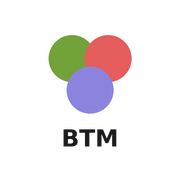
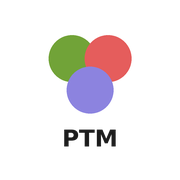
Rename the app to PTM – Petanque Tournament Manager
- New logo (same three circles, "PTM" in the original lettering) as
  /ptm-logo.png (btm-logo.png also replaced); favicons, app icons, badged
  Teams / Leaderboard / Teams Edit shortcut icons and coin toss logo redrawn
- "Petanque Tournament Manager" / "PTM" in titles, nav, sign-in, password
  reset, team registration, emails (reset + matches report), error messages,
  help text, shortcut dialog and Coin Toss (title, manifest, description)
- Icon version tags bumped so browsers fetch the new pictures; coin toss
  offline copy bumped. Internal names (repo, Render, database, storage keys)
  unchanged; btm.themoirs.uk keeps working.

Claude-Session: https://claude.ai/code/session_01BSXdqJTaVf44VpYp4jSkUf

Changed region(s): [[0.4444, 0.6944, 0.6667, 0.8333], [0.3333, 0.6944, 0.5, 0.8333], [0.6111, 0.6944, 0.6389, 0.7222]]

diff --git a/server/routes.ts b/server/routes.ts
@@ -39,7 +39,7 @@ ${editUrl
 Email: <a href="mailto:${c.email}">${c.email}</a><br>
 WhatsApp: <a href="https://wa.me/${c.whatsappIntl}">${c.whatsapp}</a></p>`}
 <p>Good luck in the tournament!</p>
-<p style="color:#888;font-size:13px">Boules Tournament Manager · <a href="${siteUrl}" style="color:#888">${siteUrl.replace(/^https?:\/\//, "")}</a></p>
+<p style="color:#888;font-size:13px">Petanque Tournament Manager · <a href="${siteUrl}" style="color:#888">${siteUrl.replace(/^https?:\/\//, "")}</a></p>
 </div>`;
 }
 
@@ -169,7 +169,7 @@ export async function registerRoutes(app: Express): Promise<Server> {
 
       if (!hasUsablePassword(user.passwordHash)) {
         return res.status(401).json({
-          error: "This account doesn't have a BTM password yet. Sign in with Google, or use \"Forgot password?\" to set one.",
+          error: "This account doesn't have a PTM password yet. Sign in with Google, or use \"Forgot password?\" to set one.",
         });
       }
 
@@ -252,9 +252,9 @@ export async function registerRoutes(app: Express): Promise<Server> {
           await client.emails.send({
             from: fromEmail,
             to: user.email,
-            subject: "Reset your Boules Tournament Manager password",
+            subject: "Reset your Petanque Tournament Manager password",
             html: `<p>Hello${user.displayName ? ` ${user.displayName}` : ""},</p>
-<p>Someone (hopefully you) asked to ${hasUsablePassword(user.passwordHash) ? "reset" : "set"} the password for your Boules Tournament Manager account.</p>
+<p>Someone (hopefully you) asked to ${hasUsablePassword(user.passwordHash) ? "reset" : "set"} the password for your Petanque Tournament Manager account.</p>
 <p><a href="${link}">Click here to choose a new password</a></p>
 <p>This link works once and expires in 1 hour. If you didn't ask for this, you can ignore this email.</p>`,
           });
@@ -378,7 +378,7 @@ export async function registerRoutes(app: Express): Promise<Server> {
     const rawStart = String(req.query.start || "/").trim();
     // Only same-site paths: must start with a single "/" (not "//host")
     const start = /^\/(?!\/)[^\s]{0,500}$/.test(rawStart) ? rawStart : "/";
-    const name = rawName || "Boules Tournament Manager";
+    const name = rawName || "Petanque Tournament Manager";
     // Each shortcut covers only its own page (e.g. /teams/<tournament>), so the
     // Teams and Leaderboard pages, and different tournaments, install separately.
     // A shortcut covering the whole site would stop Chrome offering the others.
@@ -388,12 +388,12 @@ export async function registerRoutes(app: Express): Promise<Server> {
     const iconKind = iconKinds.includes(String(req.query.icon)) ? String(req.query.icon) : null;
     const icons = iconKind
       ? [
-          { src: `/icons/${iconKind}-192.png?v=2`, sizes: "192x192", type: "image/png", purpose: "any" },
-          { src: `/icons/${iconKind}-512.png?v=2`, sizes: "512x512", type: "image/png", purpose: "any" },
+          { src: `/icons/${iconKind}-192.png?v=3`, sizes: "192x192", type: "image/png", purpose: "any" },
+          { src: `/icons/${iconKind}-512.png?v=3`, sizes: "512x512", type: "image/png", purpose: "any" },
         ]
       : [
-          { src: "/icon-192.png", sizes: "192x192", type: "image/png", purpose: "any" },
-          { src: "/icon-512.png", sizes: "512x512", type: "image/png", purpose: "any" },
+          { src: "/icon-192.png?v=3", sizes: "192x192", type: "image/png", purpose: "any" },
+          { src: "/icon-512.png?v=3", sizes: "512x512", type: "image/png", purpose: "any" },
         ];
     res.type("application/manifest+json");
     res.set("Cache-Control", "no-cache");
@@ -402,7 +402,7 @@ export async function registerRoutes(app: Express): Promise<Server> {
         id: start,
         name,
         short_name: name,
-        description: "Boules Tournament Manager",
+        description: "Petanque Tournament Manager",
         // Marked so the app knows the shortcut exists (it then hides the "Add Shortcut" button)
         start_url: `${start}${start.includes("?") ? "&" : "?"}from=shortcut`,
         scope,
@@ -797,7 +797,7 @@ export async function registerRoutes(app: Express): Promise<Server> {
 
       const targetUser = await storage.getUserByEmail(email.trim());
       if (!targetUser) {
-        return res.status(404).json({ error: `${email.trim()} does not have a BTM account. Get them to create one before transferring ownership to them.` });
+        return res.status(404).json({ error: `${email.trim()} does not have a PTM account. Get them to create one before transferring ownership to them.` });
       }
 
       if (targetUser.isBlocked) {
@@ -856,7 +856,7 @@ export async function registerRoutes(app: Express): Promise<Server> {
         return res.status(400).json({ error: "A valid email address is required" });
       }
       const target = await storage.getUserByEmail(email.trim().toLowerCase());
-      if (!target) return res.status(404).json({ error: `${email.trim()} does not have a BTM account. Get them to create one before setting them as a co-editor.` });
+      if (!target) return res.status(404).json({ error: `${email.trim()} does not have a PTM account. Get them to create one before setting them as a co-editor.` });
       if (target.isBlocked) return res.status(400).json({ error: "Cannot add a blocked user as co-editor" });
       if (target.id === tournament.userId) {
         return res.status(400).json({ error: "That user already owns this tournament" });
@@ -1663,13 +1663,13 @@ export async function registerRoutes(app: Express): Promise<Server> {
       const result = await client.emails.send({
         from: fromEmail,
         to: validatedData.recipientEmail,
-        subject: "Boules Tournament - Matches Report",
+        subject: "Petanque Tournament - Matches Report",
         html: `
-          <h2>Boules Tournament Matches Report</h2>
+          <h2>Petanque Tournament Matches Report</h2>
           <p>Please find attached the matches report generated on ${new Date().toLocaleDateString()}.</p>
           <p>This report contains all match information including schedules, scores, and results.</p>
           <br/>
-          <p>Best regards,<br/>Boules Tournament Management</p>
+          <p>Best regards,<br/>Petanque Tournament Manager</p>
         `,
         attachments: [
           {

diff --git a/client/index.html b/client/index.html
@@ -3,11 +3,11 @@
   <head>
     <meta charset="UTF-8" />
     <meta name="viewport" content="width=device-width, initial-scale=1.0, maximum-scale=1" />
-    <title>Boules Tournament Manager</title>
+    <title>Petanque Tournament Manager</title>
     <meta name="description" content="Manage your boules tournament competition with team registration, match tracking, and tournament brackets for all stages from initial rounds to finals." />
-    <link rel="icon" type="image/png" href="/favicon.png?v=2" />
-    <link rel="icon" type="image/x-icon" href="/favicon.ico?v=2" sizes="any" />
-    <link rel="apple-touch-icon" href="/apple-touch-icon.png?v=2" />
+    <link rel="icon" type="image/png" href="/favicon.png?v=3" />
+    <link rel="icon" type="image/x-icon" href="/favicon.ico?v=3" sizes="any" />
+    <link rel="apple-touch-icon" href="/apple-touch-icon.png?v=3" />
     <link rel="preconnect" href="https://fonts.googleapis.com">
     <link rel="preconnect" href="https://fonts.gstatic.com" crossorigin>
     <link href="https://fonts.googleapis.com/css2?family=Architects+Daughter&family=DM+Sans:ital,opsz,wght@0,9..40,100..1000;1,9..40,100..1000&family=Fira+Code:wght@300..700&family=Geist+Mono:wght@100..900&family=Geist:wght@100..900&family=IBM+Plex+Mono:ital,wght@0,100;0,200;0,300;0,400;0,500;0,600;0,700;1,100;1,200;1,300;1,400;1,500;1,600;1,700&family=IBM+Plex+Sans:ital,wght@0,100..700;1,100..700&family=Inter:ital,opsz,wght@0,14..32,100..900;1,14..32,100..900&family=JetBrains+Mono:ital,wght@0,100..800;1,100..800&family=Libre+Baskerville:ital,wght@0,400;0,700;1,400&family=Lora:ital,wght@0,400..700;1,400..700&family=Merriweather:ital,opsz,wght@0,18..144,300..900;1,18..144,300..900&family=Montserrat:ital,wght@0,100..900;1,100..900&family=Open+Sans:ital,wght@0,300..800;1,300..800&family=Outfit:wght@100..900&family=Oxanium:wght@200..800&family=Playfair+Display:ital,wght@0,400..900;1,400..900&family=Plus+Jakarta+Sans:ital,wght@0,200..800;1,200..800&family=Poppins:ital,wght@0,100;0,200;0,300;0,400;0,500;0,600;0,700;0,800;0,900;1,100;1,200;1,300;1,400;1,500;1,600;1,700;1,800;1,900&family=Roboto+Mono:ital,wght@0,100..700;1,100..700&family=Roboto:ital,wght@0,100..900;1,100..900&family=Source+Code+Pro:ital,wght@0,200..900;1,200..900&family=Source+Serif+4:ital,opsz,wght@0,8..60,200..900;1,8..60,200..900&family=Space+Grotesk:wght@300..700&family=Space+Mono:ital,wght@0,400;0,700;1,400;1,700&display=swap" rel="stylesheet">

diff --git a/client/src/components/add-to-home-screen.tsx b/client/src/components/add-to-home-screen.tsx
@@ -90,7 +90,7 @@ export function AddToHomeScreenButton({ tournamentName, slug, page, edit = false
     // iPhone/iPad take the home-screen picture from the apple-touch-icon
     const touchIcon = document.querySelector<HTMLLinkElement>('link[rel="apple-touch-icon"]');
     const previousTouchIcon = touchIcon?.getAttribute("href") ?? null;
-    if (touchIcon) touchIcon.href = `/icons/${iconKind}-180.png?v=2`;
+    if (touchIcon) touchIcon.href = `/icons/${iconKind}-180.png?v=3`;
 
     const previousTitle = document.title;
     document.title = shortcutName;
@@ -182,12 +182,12 @@ export function AddToHomeScreenButton({ tournamentName, slug, page, edit = false
             <DialogDescription>
               {isEdit
                 ? "Put the editable teams page on your home screen or desktop. It opens signed in, as long as you're signed in on this browser."
-                : `Put the ${pageLabels[page].toLowerCase()} on your home screen or desktop, with the BTM logo.`}
+                : `Put the ${pageLabels[page].toLowerCase()} on your home screen or desktop, with the PTM logo.`}
             </DialogDescription>
           </DialogHeader>
           <div className="space-y-3 text-sm">
             <div className="flex items-center gap-3 rounded-md border p-3">
-              <img src={`/icons/${iconKind}-192.png?v=2`} alt="" className="h-10 w-10 rounded-lg border" />
+              <img src={`/icons/${iconKind}-192.png?v=3`} alt="" className="h-10 w-10 rounded-lg border" />
               <div className="min-w-0">
                 <p className="font-medium break-words">{shortcutName}</p>
                 <p className="text-xs text-muted-foreground">Shortcut name</p>
@@ -256,7 +256,7 @@ export function AddToHomeScreenButton({ tournamentName, slug, page, edit = false
             {(platform === "firefox" || platform === "other") && (
               <ol className="list-decimal pl-5 space-y-1">
                 <li>Drag the <strong>padlock</strong> icon at the left of the address bar onto your desktop.</li>
-                <li>Or open this page in Chrome, Edge or Safari, which can add it with the BTM logo.</li>
+                <li>Or open this page in Chrome, Edge or Safari, which can add it with the PTM logo.</li>
               </ol>
             )}
 

diff --git a/client/public/coin-toss/index.html b/client/public/coin-toss/index.html
@@ -3,10 +3,10 @@
 <head>
   <meta charset="UTF-8" />
   <meta name="viewport" content="width=device-width, initial-scale=1.0, maximum-scale=1, viewport-fit=cover" />
-  <title>Coin Toss – BTM</title>
-  <meta name="description" content="Boules Tournament Manager - Random Coin Toss. Simply click the link &amp; install on your phone home page." />
-  <meta property="og:title" content="Coin Toss – BTM" />
-  <meta property="og:description" content="Boules Tournament Manager - Random Coin Toss. Simply click the link &amp; install on your phone home page." />
+  <title>Coin Toss – PTM</title>
+  <meta name="description" content="Petanque Tournament Manager - Random Coin Toss. Simply click the link &amp; install on your phone home page." />
+  <meta property="og:title" content="Coin Toss – PTM" />
+  <meta property="og:description" content="Petanque Tournament Manager - Random Coin Toss. Simply click the link &amp; install on your phone home page." />
   <meta property="og:type" content="website" />
   <meta property="og:image" content="/coin-toss/icon-512.png" />
   <meta name="theme-color" content="#b9a888" />
@@ -138,7 +138,7 @@
     <div class="sheet" role="dialog" aria-labelledby="installTitle">
       <h2 id="installTitle">Add Coin Toss</h2>
       <p>Put it on your home screen or desktop. It works even with no internet connection.</p>
-      <div class="row"><img src="/coin-toss/icon-192.png" alt="" /><div><strong>Coin Toss</strong><br /><span style="color:#64748b;font-size:12px">BTM</span></div></div>
+      <div class="row"><img src="/coin-toss/icon-192.png" alt="" /><div><strong>Coin Toss</strong><br /><span style="color:#64748b;font-size:12px">PTM</span></div></div>
       <div id="installSteps"></div>
       <div class="btns">
         <button class="btn primary" id="installNow" type="button" hidden>Install</button>

diff --git a/client/src/pages/leaderboard.tsx b/client/src/pages/leaderboard.tsx
@@ -176,7 +176,7 @@ export default function Leaderboard() {
       {/* Compact header: one title row, one tab row (plus a team row when filtering) */}
       <div className="space-y-2">
         <div className="flex items-center gap-2">
-          <img src="/btm-logo.png" alt="BTM" className="h-9 w-9 rounded-md object-cover flex-shrink-0" />
+          <img src="/ptm-logo.png" alt="PTM" className="h-9 w-9 rounded-md object-cover flex-shrink-0" />
           <div className="min-w-0 flex-1">
             <h1 className="text-lg font-bold leading-tight tracking-tight truncate" data-testid="text-title">
               {isForecast && !showMatchResults ? "Forecast Leaderboard" : "Leaderboard"}
@@ -296,7 +296,7 @@ export default function Leaderboard() {
                 <div>
                   <h3 className="font-semibold mb-2">Home Screen / Desktop Shortcut</h3>
                   <ul className="list-disc pl-5 space-y-1">
-                    <li>Press the <strong>shortcut</strong> button (screen and phone icon) to add this leaderboard to your home screen or desktop, with the BTM logo</li>
+                    <li>Press the <strong>shortcut</strong> button (screen and phone icon) to add this leaderboard to your home screen or desktop, with the PTM logo</li>
                     <li><strong>To remove it on a computer:</strong> open the shortcut, click the <strong>⋮</strong> menu at the top right of its window and choose <strong>Uninstall</strong>. Or type <strong>chrome://apps</strong> (or <strong>edge://apps</strong>) in the address bar, right-click it and choose <strong>Remove</strong></li>
                     <li><strong>To remove it on a phone:</strong> press and hold the icon on your home screen and choose <strong>Remove</strong> (or <strong>Delete Bookmark</strong> on an iPhone)</li>
                   </ul>

diff --git a/client/src/pages/teams.tsx b/client/src/pages/teams.tsx
@@ -1983,7 +1983,7 @@ export default function Teams() {
                 <div>
                   <h3 className="font-semibold mb-2">Home Screen / Desktop Shortcut</h3>
                   <ul className="list-disc pl-5 space-y-1">
-                    <li>Press the <strong>shortcut</strong> button (screen and phone icon) to add this teams page to your home screen or desktop, with the BTM logo</li>
+                    <li>Press the <strong>shortcut</strong> button (screen and phone icon) to add this teams page to your home screen or desktop, with the PTM logo</li>
                     <li><strong>To remove it on a computer:</strong> open the shortcut, click the <strong>⋮</strong> menu at the top right of its window and choose <strong>Uninstall</strong>. Or type <strong>chrome://apps</strong> (or <strong>edge://apps</strong>) in the address bar, right-click it and choose <strong>Remove</strong></li>
                     <li><strong>To remove it on a phone:</strong> press and hold the icon on your home screen and choose <strong>Remove</strong> (or <strong>Delete Bookmark</strong> on an iPhone)</li>
                   </ul>

diff --git a/client/src/components/navigation.tsx b/client/src/components/navigation.tsx
@@ -131,9 +131,9 @@ export function Navigation() {
           {/* Top Row: logo, tournament picker and account buttons on one line */}
           <div className="flex items-center justify-between gap-2">
             <div className="flex items-center gap-2 min-w-0 flex-1">
-              <img src="/btm-logo.png" alt="BTM" className="h-8 w-8 rounded-md object-cover flex-shrink-0" />
+              <img src="/ptm-logo.png" alt="PTM" className="h-8 w-8 rounded-md object-cover flex-shrink-0" />
               <h1 className="hidden lg:block text-lg font-semibold text-foreground whitespace-nowrap">
-                Boules Tournament Manager
+                Petanque Tournament Manager
               </h1>
               <div className="min-w-0 flex-1 lg:flex-none">
                 <TournamentSelector />

diff --git a/client/src/components/team-performance-dialog.tsx b/client/src/components/team-performance-dialog.tsx
@@ -188,7 +188,7 @@ export function TeamPerformanceDialog({ teamId, teams, matches, results, tournam
             )}
             <div ref={cardRef} className={`${showPicture && imageUrl ? "hidden " : ""}rounded-xl border bg-card text-card-foreground p-4 space-y-3`} data-testid="card-team-performance">
               <div className="flex items-center gap-2">
-                <img src="/btm-logo.png" alt="" className="h-9 w-9 rounded-md object-cover flex-shrink-0" />
+                <img src="/ptm-logo.png" alt="" className="h-9 w-9 rounded-md object-cover flex-shrink-0" />
                 <div className="min-w-0">
                   <p className="text-xs text-muted-foreground truncate">{tournamentName}</p>
                   <p className="text-[11px] text-muted-foreground">

diff --git a/client/src/pages/login.tsx b/client/src/pages/login.tsx
@@ -162,9 +162,9 @@ export default function Login({ defaultTab = "signin" }: { defaultTab?: "signin"
         {/* Logo / Title */}
         <div className="text-center space-y-2">
           <div className="flex justify-center">
-            <img src="/btm-logo.png" alt="BTM Logo" className="h-32 w-32 rounded-xl object-cover" />
+            <img src="/ptm-logo.png" alt="PTM Logo" className="h-32 w-32 rounded-xl object-cover" />
           </div>
-          <h1 className="text-2xl font-bold text-foreground">Boules Tournament Manager</h1>
+          <h1 className="text-2xl font-bold text-foreground">Petanque Tournament Manager</h1>
           <p className="text-muted-foreground text-sm">Sign in to manage your tournaments</p>
         </div>
 

diff --git a/client/src/pages/public-tournament.tsx b/client/src/pages/public-tournament.tsx
@@ -54,7 +54,7 @@ export default function PublicTournamentPage({ slug, page }: { slug: string; pag
   if (state === "missing") {
     return (
       <div className="flex flex-col items-center justify-center min-h-screen bg-background p-6 text-center gap-3">
-        <img src="/btm-logo.png" alt="BTM" className="h-16 w-16 rounded-xl object-cover" />
+        <img src="/ptm-logo.png" alt="PTM" className="h-16 w-16 rounded-xl object-cover" />
         <h1 className="text-xl font-semibold">Tournament not found</h1>
         <p className="text-muted-foreground max-w-sm">
           There's no tournament at this address. It may have been renamed, so please ask the organiser for the latest link.

diff --git a/client/src/pages/reset-password.tsx b/client/src/pages/reset-password.tsx
@@ -46,9 +46,9 @@ export default function ResetPasswordPage() {
       <div className="w-full max-w-md space-y-6">
         <div className="text-center space-y-2">
           <div className="flex justify-center">
-            <img src="/btm-logo.png" alt="BTM Logo" className="h-20 w-20 rounded-xl object-cover" />
+            <img src="/ptm-logo.png" alt="PTM Logo" className="h-20 w-20 rounded-xl object-cover" />
           </div>
-          <h1 className="text-2xl font-bold text-foreground">Boules Tournament Manager</h1>
+          <h1 className="text-2xl font-bold text-foreground">Petanque Tournament Manager</h1>
         </div>
         <Card>
           <CardHeader>

diff --git a/client/src/pages/register-team.tsx b/client/src/pages/register-team.tsx
@@ -63,8 +63,8 @@ function Shell({ children }: { children: React.ReactNode }) {
     <div className="min-h-screen bg-background flex justify-center px-4 py-8 sm:py-12">
       <div className="w-full max-w-xl space-y-6">
         <div className="flex items-center gap-3">
-          <img src="/btm-logo.png" alt="" className="h-10 w-10 rounded-lg object-cover" />
-          <span className="font-semibold">Boules Tournament Manager</span>
+          <img src="/ptm-logo.png" alt="" className="h-10 w-10 rounded-lg object-cover" />
+          <span className="font-semibold">Petanque Tournament Manager</span>
         </div>
         {children}
       </div>
